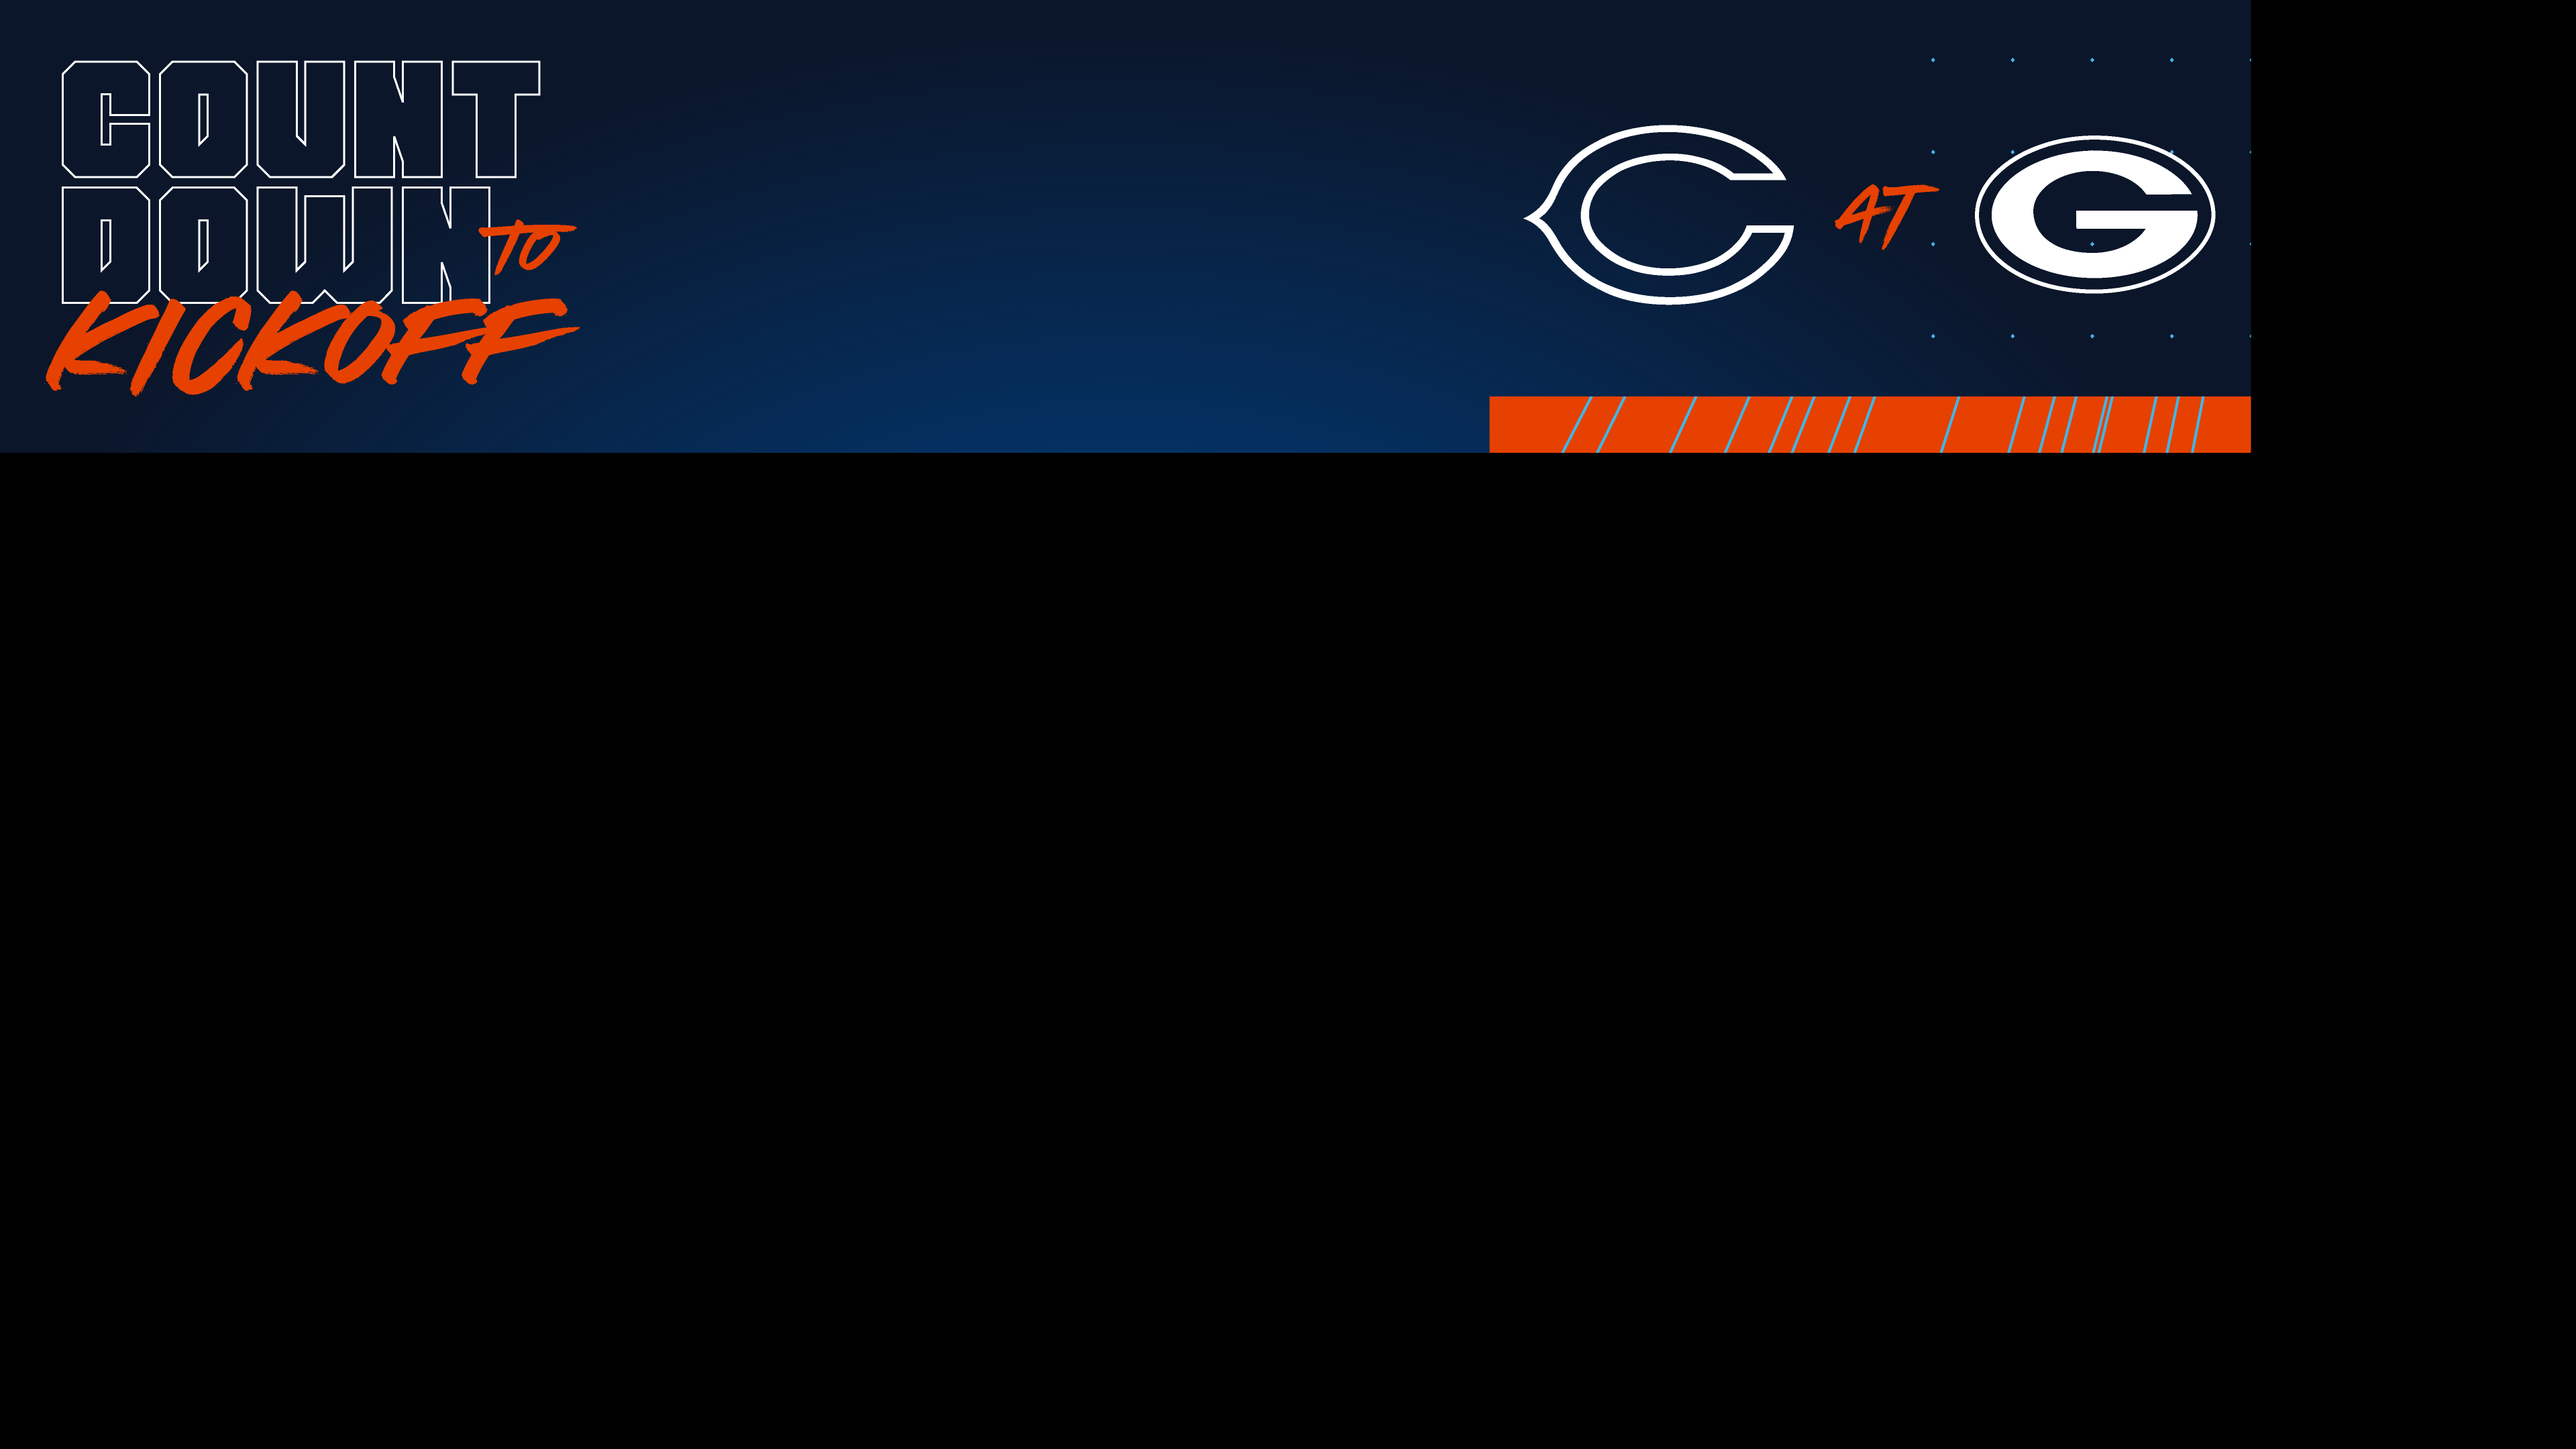
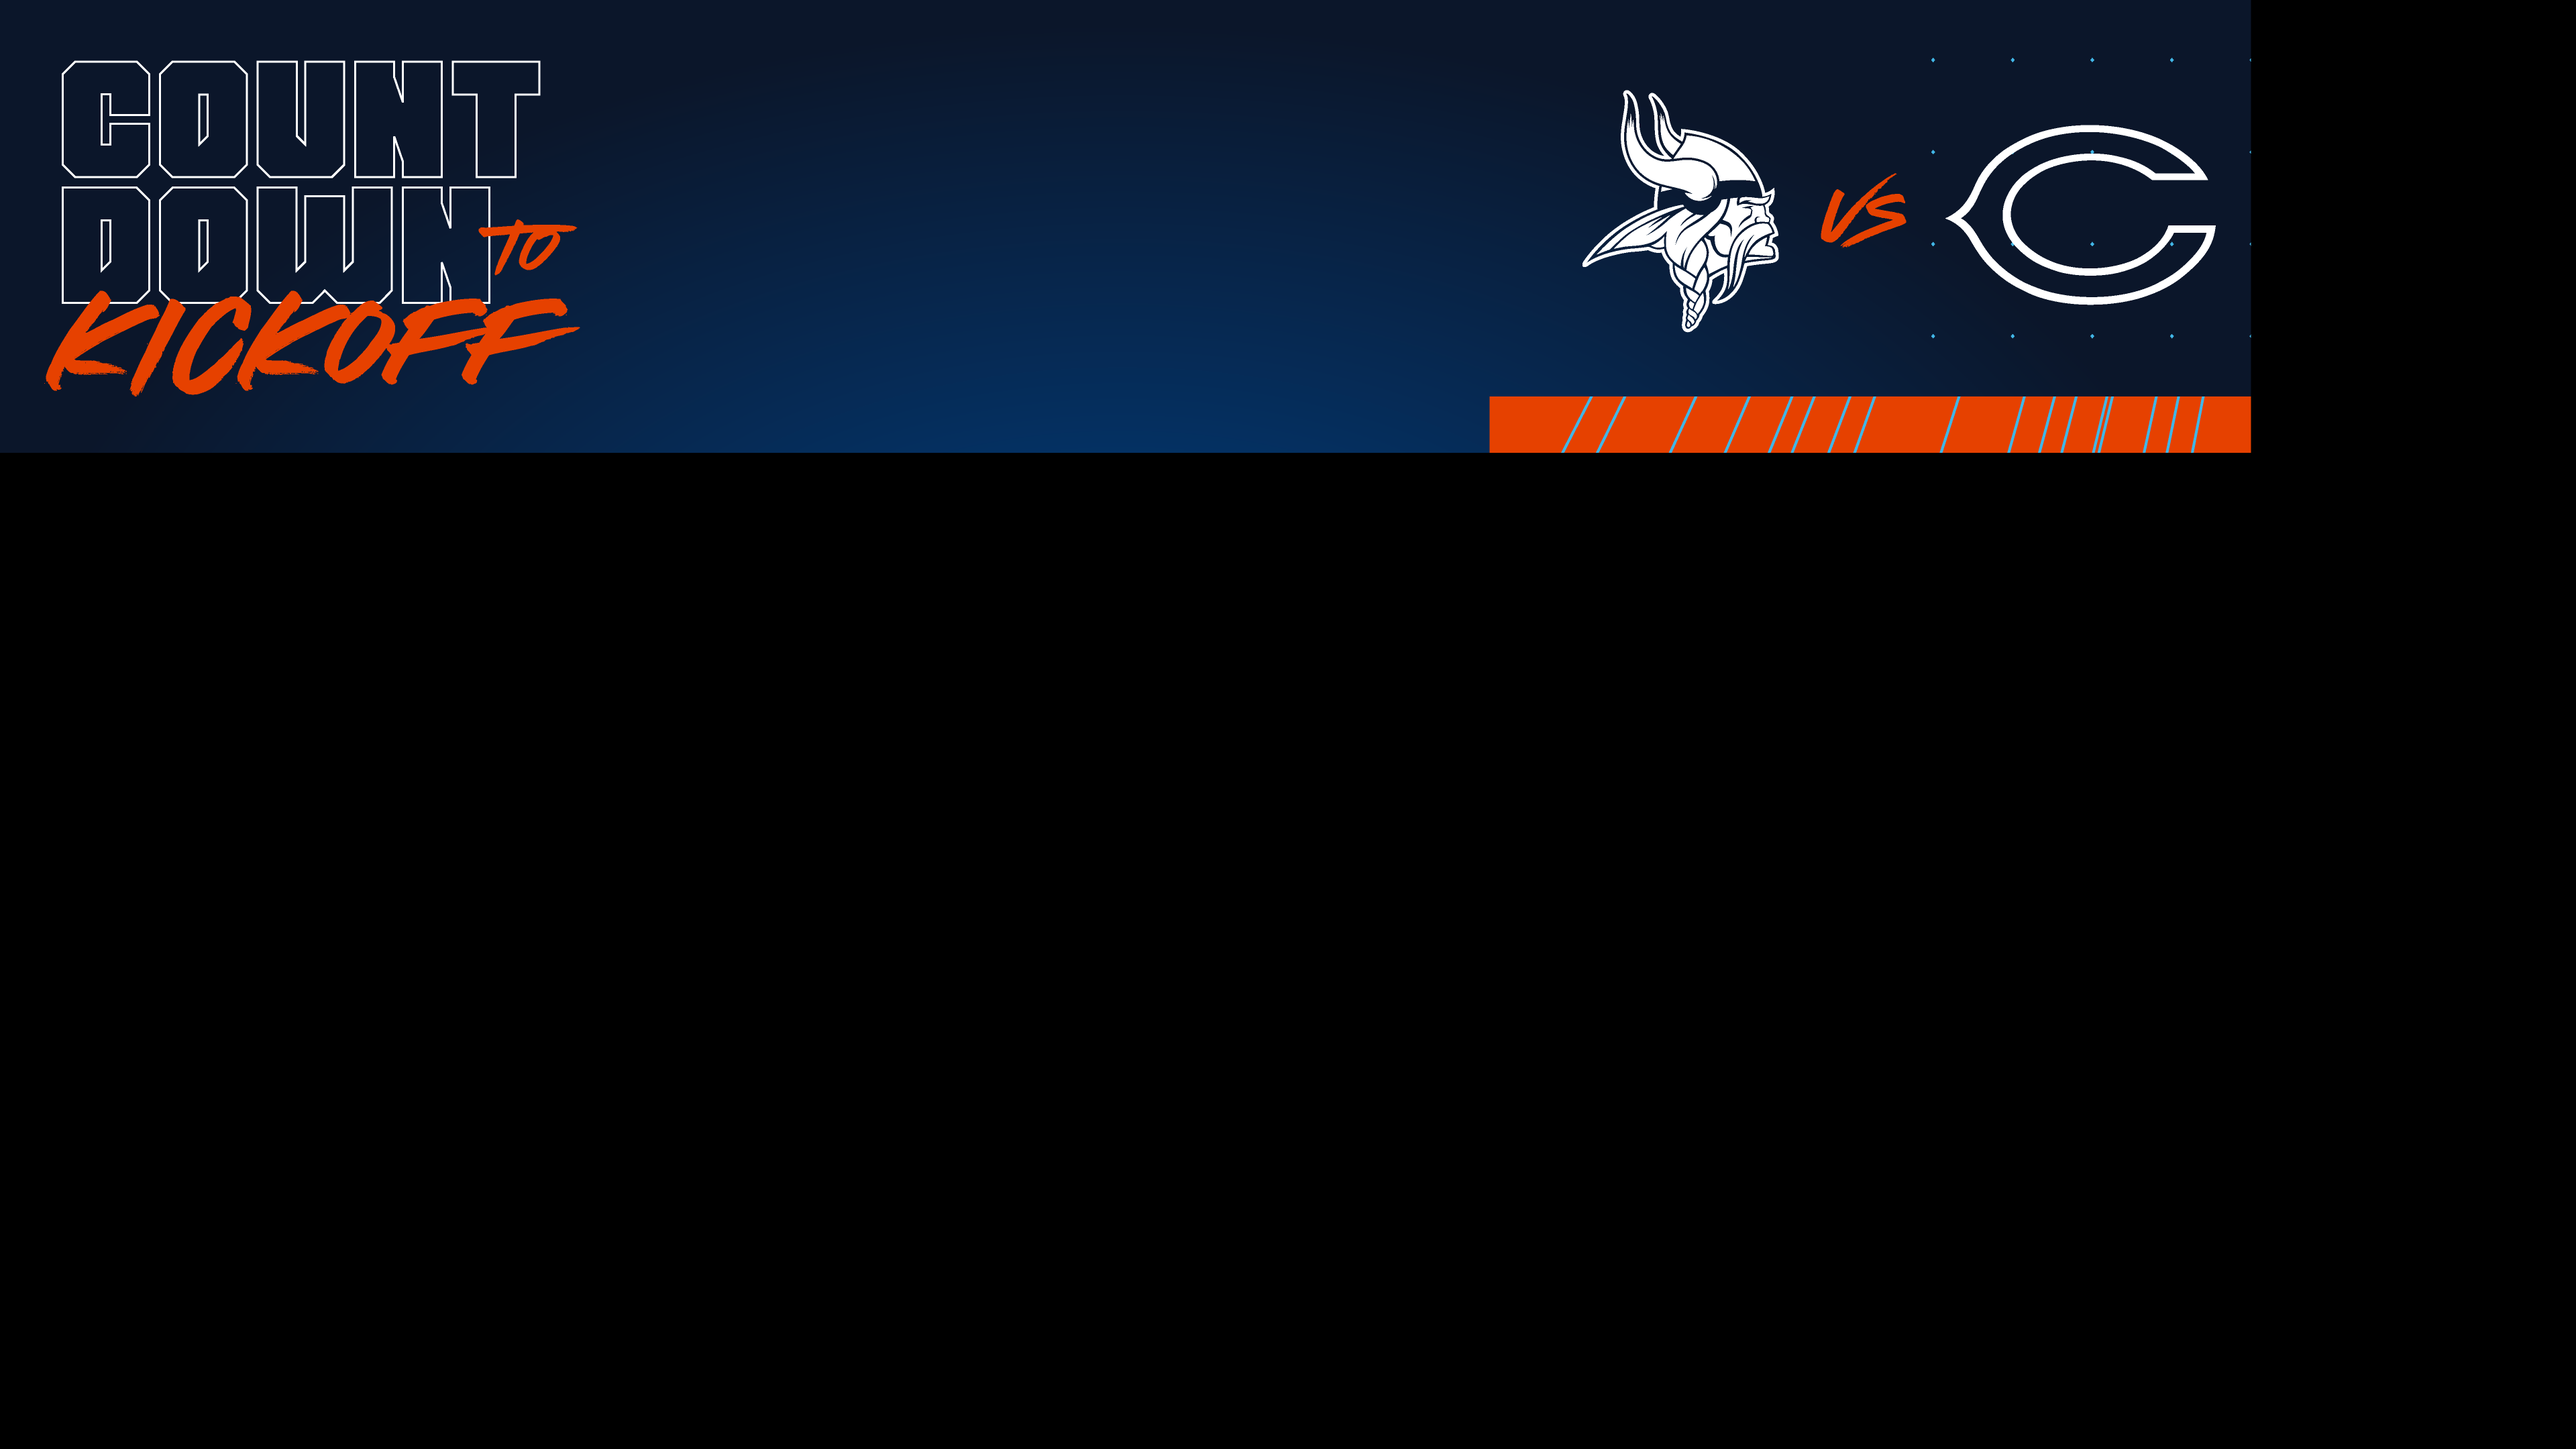
MIN game

Changed region(s): [[0.5938, 0.062, 0.875, 0.2171]]

diff --git a/CurrentWeek/Horizontal/script.js b/CurrentWeek/Horizontal/script.js
@@ -68,9 +68,9 @@ $(document).ready(function(){
 			return futureFormattedDate
 		}
 		//USE 24HR MILITARY TIME
-		//GB
+		//MIN
 		$("#countdown").countdown({
-			date: "12 December 2021 19:20:00",
+			date: "20 December 2021 19:15:00",
 			format: "on"
 		});
 	});
